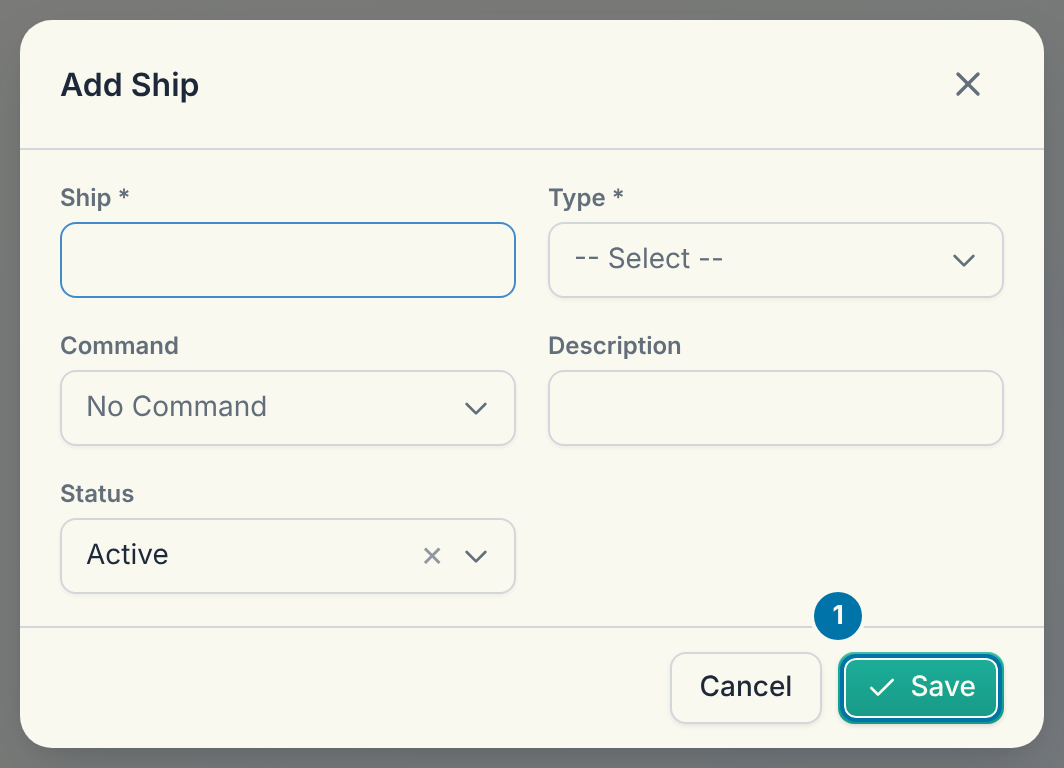
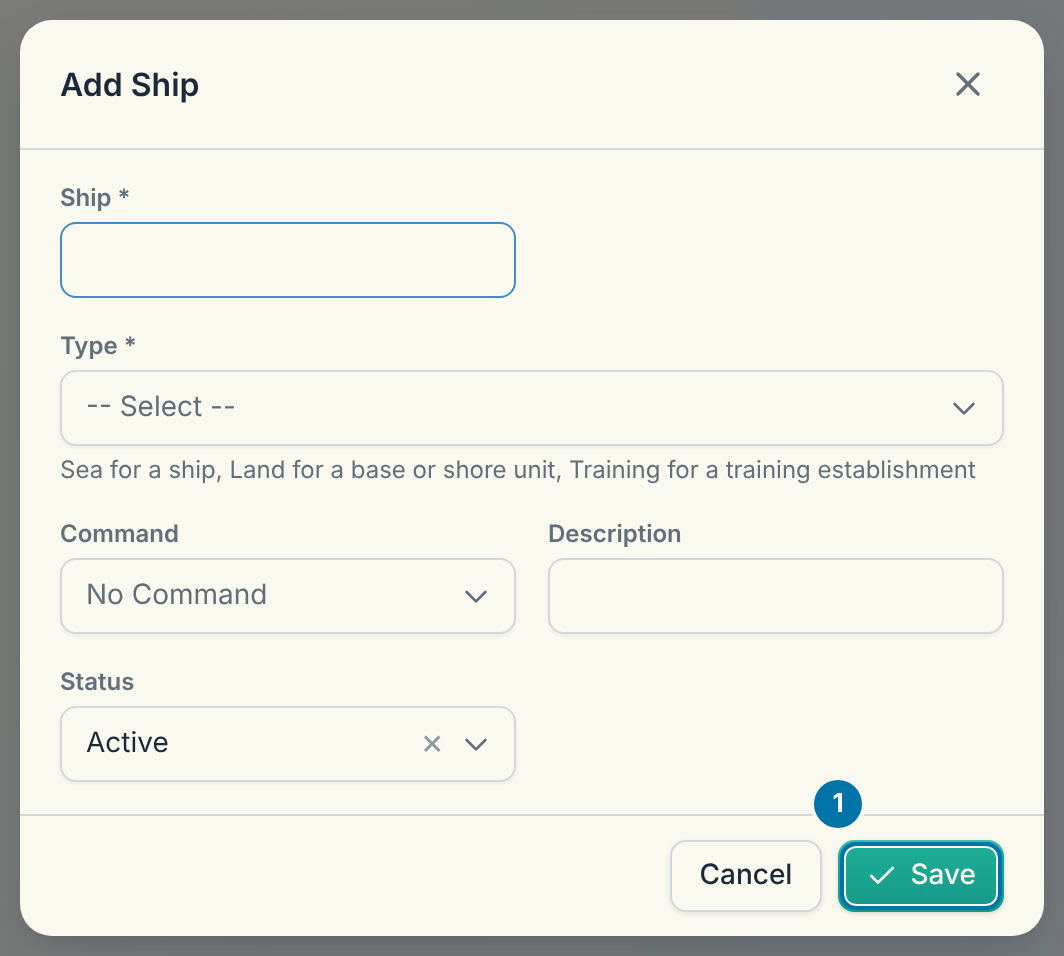
Record fields: View Details tooltip, user guide, README and CONVENTIONS, the import map

diff --git a/public/js/sections/rating-children.js b/public/js/sections/rating-children.js
@@ -25,7 +25,7 @@ import { confirmDialog } from '../ui/confirm.js';
 import { toast } from '../ui/toast.js';
 import { field, textInput, selectInput, setFieldErrors, clearFieldErrors } from '../ui/field.js';
 import { optionsWithHeld, filterLgas } from '../core/lookups.js';
-import { rowTips } from './disciplinary-parts.js';
+import { rowTip } from '../ui/row-tip.js';
 import { readForm, dateField } from './rating-fields.js';
 import { scheduledMoves } from './drafting-record.js';
 import { scheduledAdvancements } from './advancement-record.js';
@@ -292,7 +292,7 @@ export function childPanel({ serviceNumber, tab, rows = [], rating = {}, readOnl
   if (tab.look === 'cards') {
     const photo = nokPhoto({ serviceNumber, rating, readOnly: !canEdit });
     return h('div', { className: 'space-y-4' }, [
-      rowTips(h('div', { className: 'grid grid-cols-2 gap-4 phone:grid-cols-1' }, rows.map((r) => {
+      rowTip(h('div', { className: 'grid grid-cols-2 gap-4 phone:grid-cols-1' }, rows.map((r) => {
         const name = [r.first_name, r.last_name].filter(Boolean).join(' ');
         const o = opens(r, name);
         return h('section', { ...o, className: cx(CARD, 'p-4 transition-colors hover:bg-subtle', o.className) }, [
@@ -313,7 +313,7 @@ export function childPanel({ serviceNumber, tab, rows = [], rating = {}, readOnl
     return h('div', { className: CARD }, [
       band,
       // Drafting: a move still to come (a WEF after today) shows first, as scheduled
-      rowTips(h('ol', { className: 'relative mx-4 my-4 ml-6 border-l-2 border-border' }, [tab.key === 'drafting' ? scheduledMoves(serviceNumber) : null, ...rows.map((p) => {
+      rowTip(h('ol', { className: 'relative mx-4 my-4 ml-6 border-l-2 border-border' }, [tab.key === 'drafting' ? scheduledMoves(serviceNumber) : null, ...rows.map((p) => {
         const current = !p.end_date;
         const what = p.ship_name || 'posting';
         const o = opens(p, what);
@@ -354,7 +354,7 @@ export function childPanel({ serviceNumber, tab, rows = [], rating = {}, readOnl
   return h('div', { className: cx(CARD, 'overflow-hidden') }, [
     band,
     tab.key === 'advancement' ? scheduledAdvancements(serviceNumber) : null, // a rate change still to come (WP8)
-    rowTips(h('div', { className: tab.details ? '' : 'overflow-x-auto' }, [table, cardList])),
+    rowTip(h('div', { className: tab.details ? '' : 'overflow-x-auto' }, [table, cardList])),
   ]);
 }
 

diff --git a/public/js/ui/row-tip.js b/public/js/ui/row-tip.js
@@ -1,0 +1,33 @@
+/*
+ * row tip: the "View Details" tooltip under the pointer on desktop, for a list whose rows or cards open a record
+ * (a table row with tabindex, or anything marked data-view-details). Touch shows nothing.
+ *
+ *   rowTip(listEl)   returns listEl
+ */
+import { h } from './html.js';
+
+let tip = null;
+
+export function rowTip(listEl) {
+  const tipEl = () => {
+    if (!tip) {
+      tip = h('div', { role: 'tooltip', className: 'pointer-events-none fixed z-[60] hidden whitespace-nowrap rounded-ctl bg-foreground px-2 py-1 text-xs font-medium text-background shadow-pop' });
+      document.body.appendChild(tip);
+    }
+    return tip;
+  };
+  const hide = () => { if (tip) tip.classList.add('hidden'); };
+  listEl.addEventListener('pointermove', (e) => {
+    const target = e.target.closest && e.target.closest('tbody tr[tabindex], [data-view-details]');
+    // not over the row's own buttons
+    if (!target || e.pointerType === 'touch' || e.target.closest('button')) { hide(); return; }
+    const t = tipEl();
+    t.textContent = 'View Details';
+    t.classList.remove('hidden');
+    t.style.left = `${Math.max(8, Math.min(e.clientX - 6, window.innerWidth - t.offsetWidth - 8))}px`;
+    t.style.top = `${Math.min(e.clientY + 20, window.innerHeight - t.offsetHeight - 8)}px`;
+  });
+  listEl.addEventListener('pointerleave', hide);
+  listEl.addEventListener('click', hide);
+  return listEl;
+}

diff --git a/public/js/sections/disciplinary-parts.js b/public/js/sections/disciplinary-parts.js
@@ -78,7 +78,7 @@ export function rowTips(listEl) {
   };
   const hide = () => { if (tip) tip.classList.add('hidden'); };
   listEl.addEventListener('pointermove', (e) => {
-    const row = e.target.closest && e.target.closest('tbody tr[tabindex], [data-view-details]');
+    const row = e.target.closest && e.target.closest('tbody tr[tabindex]');
     if (!row || e.pointerType === 'touch') { hide(); return; }
     const t = tipEl();
     t.textContent = 'View Details';

diff --git a/README.md b/README.md
@@ -29,7 +29,12 @@ Every screen works on desktop (761 px and up) and on a phone (760 px and below),
 4. **New Rating** (`#ratings/new` or the **New Rating** buttons) — a dialog with four steps (*Basic Details*, *Contact*, *Health*, *Official*) and the passport photo; moving between steps keeps what was typed.
 5. **The rating's record** (`#ratings/edit/:serviceNumber`) — photo, name, labels and **Edit Details** / **Print Dossier** / **Delete**; a thin completeness bar (red below 50%, amber to 79%, green from 80%); ten tabs:
    - **Details**: Basic Details, Contact, Health and Official as cards, each edited in a dialog.
-   - **Next of Kin** (with photo), **Spouse**, **Children**, **Advancement**, **Drafting** (a timeline with the current posting), **Training**, **Education**, **Language**: Add and Edit in dialogs, Delete after a confirm, tab PDFs where the old system had them.
+   - **Next of Kin** (with photo), **Spouse**, **Children**, **Advancement**, **Drafting** (a timeline with the current posting), **Training**, **Education**, **Language**: Add and Edit in dialogs, Delete after a confirm, tab PDFs where the old system had them. The family and drafting tabs carry the live system's fields, and a row (or card) opens **View Details**, the whole record as label and value rows with its Edit and Delete:
+     - **Next of Kin**: First Name*, Last Name*, Next of Kin Type (Main or Alternate), Relationship* (Static Tables, Relationship), Mobile Number*, Home Number, Email Address*, Place of Work, Full Address* (`rating_next_of_kin`: `kin_type`, `next_of_kin_type_id`, `mobile_number`, `home_number`, `email_address`, `place_of_work`, `full_address`).
+     - **Spouse**: Full Name* (the only required field), Phone, Email, Street, Town, State, Local Government (filtered by the State, as the rating form's own are), P.O. Box.
+     - **Children**: the same address fields, then Sex (the Gender list), Date of Birth (not in the future; the list shows the age), School, Office Address and Occupation. Only Full Name is required.
+     - **Drafting** (a posting): Ship or Unit*, Command (picked from the ship's Command, and changeable), Branch, Rate at Posting, From, To, Authority (the signal), Decoration/Award and Status (the posting's Exit Type, **Active** by default). There is no State and no Sub-Branch. A posting CIRERMS makes itself (a draft or special draft reaching its WEF, `postings.move`; a rating added by Batch Upload) takes the new ship's Command, the rating's Branch, the authority of the batch or signal, and the Active status.
+     - Every change is audited field by field, and the dossier prints each person and posting as a block of label and value rows.
    - **Documents**: category chips (`DRAFTING`, `CERTIFICATE`, `REQUEST_FORM`, `EMOLUMENT`, `GEN_FORM`, `OTHER`), file list, preview, download and upload.
 6. **My Details** (`#ratings/my-details`) — the same record read-only, resolved from `users.service_number` (works for every account, as every account belongs to a rating: the full record for `HICO001` and for `B0539`).
 7. **Batch Upload** (`#ratings/upload`) — **Download Template** (with an embedded lookup reference sheet), **Upload Workbook**, **Review and Commit**: compulsory fields, dates and lookups enforced, duplicate Official Numbers skipped, the rest added in one transaction.
@@ -181,7 +186,7 @@ One engine serves all 16 tables. `src/modules/tables/tables.config.js` holds a c
 - Institution (new): Code(30), Name*(100), Location, Type (University, Polytechnic, College, Secondary School, Training Centre, Training Base, Other).
 - Local Government: Name*, State*, Code(10). Languages: Name. Relationship (the next of kin type table): Name*, Code(5).
 - Staff Branch: Name*, Code(20), Command, Department(20), CDR(20). Specialisation Area: Name*, Code*(15), Second Description(20) (the code goes in the batch numbers).
-- Ships: Name*, Type* (Ship, Base, Training), Command, Description(150). States: Name*, Code*(5), Geo-Political Zone. Title: Name*, Description(50).
+- Ships: Name*, Type* (Sea, Land, Training: the live system's own words), Command, Description(150). The list shows Name, Type, Command and Status; the Description is in the dialog. States: Name*, Code*(5), Geo-Political Zone. Title: Name*, Description(50).
 - Training (new): Code(10), Course*(60), Qualification Awarded(50), Institution*, Weeks* (1 to 104), Branch or Any, Specialisation or Any, Rates (none means every rate; link table `ref_training_rate`). The list shows Course, Institution, Weeks and the code.
 
 Rates (`ref_rate`, no screen, seeded) gained a Code (OS, AB, LS, PO, CPO, WO, MWO, NWO); their `sort_order` is the rank order, lowest first. The rating's Education and Training entries gained `institution_id` (and Training `training_course_id`) with foreign keys: their dialogs pick from the tables, the entry keeps the name as text too, and an older entry that holds only text still shows and saves. Migration `20261120_020000_create_static_tables.sql`; seed `004_static_tables.sql`. Other dropdown tables not among the 16 stay seeded by SQL.
@@ -198,7 +203,8 @@ Rates (`ref_rate`, no screen, seeded) gained a Code (OS, AB, LS, PO, CPO, WO, MW
 - Optional codes (Institution, Local Government, Relationship, Staff Branch, Training) may be empty but are unique when given. The database leaves every code column NULL-able so the migration runs on rows that exist; the engine requires the codes the specification marks.
 - A new row goes to the end of its dropdown order (`sort_order` is not shown); every name is unique (a local government's within its State; case ignored).
 - A Training course needs its Institution and Weeks; Branch and Specialisation empty mean Any; Rates are picked from a dropdown that adds a chip.
-- Ships and bases: the seed keeps the demo's types (the shore bases are Base, the rest Ship); the old Sea and Land become Ship and Base. Ship, staff branch, state and exit-type values for command, zone and flag are demo values.
+- Ships and bases: the type is Sea, Land or Training (the live system's words). Migration `20261120_160000` moved the stored values (Ship became Sea, Base became Land); the seed keeps the demo's types (the shore bases are Land, the rest Sea). Ship, staff branch, state and exit-type values for command, zone and flag are demo values.
+- Exit Type holds an **Active** row (code AC, Rating Stays Current) that a posting's Status starts as; the seed adds it beside the old A, M and C.
 - The old exit codes A, M and C are seeded as "Serving (A)", "Serving (M)" and "Serving (C)" (stays current): their meaning beyond that is not in the repository.
 - A row opens its dialog from the row or its Edit button; without the Edit grant it opens read-only (View).
 - A training entry picked from the Training table takes the course's name as its Course text, and the course's institution when none is picked.

diff --git a/docs/manual/ratings.md b/docs/manual/ratings.md
@@ -95,11 +95,11 @@ Below the bar are ten tabs.
 | Tab | What it holds |
 |---|---|
 | **Details** | Basic Details, Contact, Health and Official, as four cards |
-| **Next of Kin** | The people to call, with a photograph |
-| **Spouse** | The rating's spouse |
-| **Children** | The rating's children |
+| **Next of Kin** | The people to call, with their address and contact details, and a photograph |
+| **Spouse** | The rating's spouse, with the address |
+| **Children** | The rating's children, with the address, sex, date of birth and school |
 | **Advancement** | Every rate the rating has held, with dates, decoration and authority |
-| **Drafting** | The postings, as a timeline with the current one at the top |
+| **Drafting** | The postings, as a timeline with the current one at the top, each with its command, branch and status |
 | **Training** | Courses attended |
 | **Education** | Schools and qualifications |
 | **Language** | Languages spoken |
@@ -133,6 +133,37 @@ Below the bar are ten tabs.
 4. Press **Save**.
 
 ![Adding a next of kin](shot:ratings-add-next-of-kin)
+
+### Read an entry in full {#ratings-view-details needs="ratings.edit view"}
+
+The lists on **Next of Kin**, **Spouse**, **Children** and **Drafting** show only the main facts of each entry. To read all of it:
+
+1. Open the record and press the tab.
+2. Press the entry's row or card.
+3. Read the details, one fact on each line.
+4. Press **Close**. If your role may change entries, **Edit** and **Delete** are in the same place.
+
+![An entry in full](shot:ratings-view-details)
+
+### What each tab asks for {#ratings-tab-fields needs="ratings.edit view"}
+
+Fields with a star are required. Dates are dd/mm/yyyy. Names are kept as you type them.
+
+| Tab | Fields |
+|---|---|
+| **Next of Kin** | **First Name** \*, **Last Name** \*, **Next of Kin Type** (**Main** or **Alternate**), **Relationship** \*, **Mobile Number** \*, **Home Number**, **Email Address** \*, **Place of Work**, **Full Address** \* |
+| **Spouse** | **Full Name** \*, **Phone Number**, **Email Address**, **Street**, **Town**, **State**, **Local Government**, **P.O. Box** |
+| **Children** | **Full Name** \*, **Sex**, **Date of Birth**, **Phone Number**, **Email Address**, **Street**, **Town**, **State**, **Local Government**, **P.O. Box**, **School**, **Occupation**, **Office Address** |
+| **Drafting** | **Ship or Unit** \*, **Command**, **Branch**, **Rate at Posting**, **From**, **To**, **Authority**, **Decoration/Award**, **Status**, **Remarks** |
+
+- **Relationship** is picked from [Static Tables](#tables/relationship).
+- **Local Government** lists only the local governments of the **State** you chose. Choose the **State** first.
+- **Date of Birth** of a child cannot be in the future. The list shows the child's age.
+- On **Drafting**, picking the **Ship or Unit** fills its **Command**. You may change it. **Branch** starts as the rating's branch and **Status** starts as **Active**.
+- **Authority** is the signal that posted the rating, for example `NHQ/NP/DOD/135/2026`.
+- When a draft takes effect, the new posting is made for you with the ship's command, the rating's branch, the batch's authority and the status **Active**.
+
+![Adding a posting](shot:ratings-add-posting)
 
 To change an entry, press its edit icon.
 
@@ -234,6 +265,31 @@ marks:
   1: button "Next" | Go to the next step
 ```
 
+```shot ratings-view-details
+open: #ratings/edit/B0539
+as: admin
+do:
+  - click: tab "Next of Kin 2"
+  - click: text "Adaeze Okonkwo"
+  - wait: text "Full Address"
+crop: modal
+marks:
+  1: text "Full Address" | The address of the next of kin
+  2: button "Edit" | Change the entry
+```
+```shot ratings-add-posting
+open: #ratings/edit/B0539
+as: admin
+do:
+  - click: tab "Drafting 3"
+  - click: button "Add Posting"
+  - wait: label "Authority"
+  - click: heading "Add Posting"
+crop: modal
+marks:
+  1: label "Authority" | The signal
+  2: button "Save" | Save the posting
+```
 ```shot ratings-record
 open: #ratings/edit/B0539
 as: admin

diff --git a/docs/legacy/import-map.md b/docs/legacy/import-map.md
@@ -1,0 +1,81 @@
+# Import map: the record's new fields to the live system's columns
+
+For the later import of the real records (27/11/2026). It names columns only: it holds no record and none of the live
+database's script. The old tables and the fields CIRERMS already held are in [ratings.md](ratings.md) and
+[static-tables.md](static-tables.md); this page covers what the record-fields change (`20261120_160000_record_fields.sql`)
+added, so a loader can fill every field.
+
+Every row is read by its rating (the old person's key becomes the rating's official number, as ratings.md section 1
+says), and every Static Tables value is found by its code or name before the row is written. A value that has no match
+goes to the exceptions report, never silently dropped.
+
+## Next of Kin: live `NextOfKin` to `rating_next_of_kin`
+
+| CIRERMS field | Column | Live column | Notes |
+|---|---|---|---|
+| First Name | `first_name` | `FirstName` | required |
+| Last Name | `last_name` | `LastName` | required |
+| Relationship | `next_of_kin_type_id` | `RelationshipId` | Static Tables, Relationship (`ref_next_of_kin_type`) |
+| Full Address | `full_address` | `FullAddress` | required |
+| Mobile Number | `mobile_number` | `MobileNumber` | required |
+| Home Number | `home_number` | `HomeNumber` | |
+| Email Address | `email_address` | `EmailAddress` | required |
+| Place of Work | `place_of_work` | `PlaceOfWork` | |
+| Next of Kin Type | `kin_type` | `NextofkinType` | Main or Alternate |
+
+## Spouse: live `Spouse` to `rating_spouse`
+
+| CIRERMS field | Column | Live column | Notes |
+|---|---|---|---|
+| Full Name | `name` | `spname` | required |
+| Phone Number | `phone_number` | `spphone` | |
+| Email Address | `email_address` | `spemail` | |
+| Street | `street` | `spstreet` | |
+| Town | `town` | `sptown` | |
+| State | `state_id` | `Stateid` | Static Tables, States |
+| Local Government | `local_government_id` | `LocalGovernmentId` | must belong to the State |
+| P.O. Box | `po_box` | `sppobox` | |
+
+## Children: live `Children` to `rating_children`
+
+| CIRERMS field | Column | Live column | Notes |
+|---|---|---|---|
+| Full Name | `name` | `chname` | required |
+| Phone Number | `phone_number` | `chphone` | |
+| Email Address | `email_address` | `chemail` | |
+| Street | `street` | `chstreet` | |
+| Town | `town` | `chtown` | |
+| State | `state_id` | `Stateid` | Static Tables, States |
+| Local Government | `local_government_id` | `LocalGovernmentId` | must belong to the State |
+| P.O. Box | `po_box` | `chpobox` | |
+| Sex | `gender_id` | `Sextypeid` | the Gender list (`ref_gender`) |
+| Date of Birth | `date_of_birth` | `dateofbirth` | a date, not in the future |
+| School | `school` | `chschool` | |
+| Office Address | `office_address` | `officeaddress` | |
+| Occupation | `occupation` | `occupation` | |
+
+## Postings: live `employmenthist` to `rating_drafting`
+
+| CIRERMS field | Column | Live column | Notes |
+|---|---|---|---|
+| Branch | `branch_id` | `branchid` | Static Tables, Branch |
+| Authority | `authority` | `signal` | free text, the signal |
+| Command | `command_id` | `command` | Static Tables, Command |
+| Decoration/Award | `decoration` | `decoration` | free text |
+| Status | `exit_type_id` | `Exitmodeid` | Static Tables, Exit Type; the row named Active when empty |
+| Rate at Posting | `rate_id` | `rateid` | |
+| From | `start_date` | `fromdate` | |
+| To | `end_date` | `todate` | empty for the current posting |
+| Ship or Unit | `ship_id` | `Departmentid` | Static Tables, Ships |
+| Remarks | `remarks` | `remarks` | |
+
+The live posting's State and Sub-Branch are not kept (the owner's decision, 27/11/2026).
+
+## Ships: live `Department` to `ref_ship`
+
+| CIRERMS field | Column | Live column | Notes |
+|---|---|---|---|
+| Ship | `name` | `Name` | |
+| Description | `description` | `Description` | |
+| Command | `command_id` | `commandid` | Static Tables, Command |
+| Type | `type` | `LandSea` | Sea, Land or Training |

diff --git a/CONVENTIONS.md b/CONVENTIONS.md
@@ -467,7 +467,17 @@ module.exports = {
     source: { table, id } })` ends the open posting the day before the WEF and opens the new one on it, or, for a WEF
     after today, schedules it; `onSource(table, { applied, cancelled })` tells the caller's record when a scheduled
     move is made (or cannot be); `scheduledFor(serviceNumber)` is what is still to come (the record's Drafting tab
-    shows it, `js/sections/drafting-record.js`). Never write `rating_drafting` for a move any other way.
+    shows it, `js/sections/drafting-record.js`). Never write `rating_drafting` for a move any other way. The posting it
+    makes carries the new ship's Command (`ref_ship.command_id`), the rating's Branch, the authority it was given (the
+    batch's authority, or the special draft's signal) and the Active status (`ref_exit_type` named Active).
+  - **The record's fields** (`ratings.service.js`, `CHILD_TAB_CONFIG`): each tab's `sanitise` holds its required fields and
+    formats, `refs` names the Static Tables rows a field may pick (an id that is not in the table is refused under its
+    field), and `prepareFields` checks a local government belongs to its state and gives a new posting its defaults
+    (the ship's Command, the rating's Branch, Active) when the request leaves them out; an update writes only the keys it
+    sends. The audit trail needs nothing more: it keeps every changed column of the row. A relative's name is stored as
+    typed. A new field on a record tab goes in five places: its migration column, the tab's `fields` and `details` in
+    `public/js/sections/rating-children.js` (the Add and Edit dialog and View Details), the dossier in
+    `ratings.printouts.js`, and the audit (automatic).
   - **Scheduled changes** (`src/shared/scheduled`): `register(kind, { apply, cancelled })` at load, `schedule(tx,
     actor, { kind, serviceNumber, effectiveDate, payload, source })`, `cancel`, `forRating`, `applyDue({ today })`. The
     server (`src/server.js`) applies the changes due at start and then every hour, each in its own transaction (actor

diff --git a/docs/manual/static-tables.md b/docs/manual/static-tables.md
@@ -62,10 +62,10 @@ If the page says **This ... is in use** and names where, for example **(5 rating
 | **Institution** | A **Code**, **Location** and **Type**, such as University or Training Base. A course picks one |
 | **Local Government** | Belongs to a **State**. A name is unique within its state |
 | **Languages** | A name only |
-| **Relationship** | A name only. Next of kin entries pick one |
+| **Relationship** | A name only. Next of kin entries pick one as their **Relationship** |
 | **Staff Branch** | May belong to a **Command**. The rating form's Staff Branch list follows the chosen command |
 | **Specialisation Area** | A **Code** of up to 15 characters. It appears in the batch numbers |
-| **Ships** | A **Type**: **Ship**, **Base** or **Training**, and an optional **Command**. Drafting uses the active ships |
+| **Ships** | A **Type**: **Sea**, **Land** or **Training**, and an optional **Command**. The list shows the name, type, command and status. The description is in the dialog. Drafting uses the active ships, and a posting takes its command from its ship |
 | **States** | A **Code** and a **Geo-Political Zone**. The rating form fills the zone from the state |
 | **Title** | A name and a description |
 | **Training** | A course. It needs an **Institution** and the **Weeks**, 1 to 104. **Branch** and **Specialisation** empty mean any. **Rates** are picked from a list that adds a chip. None picked means every rate. [Training Drafting](#training/process) offers these courses |

diff --git a/docs/legacy/ratings.md b/docs/legacy/ratings.md
@@ -2,6 +2,8 @@
 
 Scope: ONLY the old tables behind a rating and how they map to the new schema for the later import. The old pages are not documented here. Sources: `HRProjectDAL/Core/HicadHRProjectModel.edmx` (store model: tables, columns, declared foreign keys), `hpproject/Controllers/EmployeeController.cs` and `EmployeePersonalInfoController.cs` (only to find which tables are used), `hpproject/APIController/PersonelController.cs` (child-record endpoints). New schema: `src/db/migrations/20261116_090200_create_ratings.sql` (`ratings`), `20261116_090300_create_rating_records.sql` (`rating_*`), `20261116_090100_create_lookups.sql` (`ref_*`).
 
+> **Update (27/11/2026):** the fields below marked "NO EQUIVALENT" for next of kin, spouse, children and drafting history (all but the drafting State and Sub-Branch, which the owner left out) now have columns in the new schema (`20261120_160000_record_fields.sql`). [import-map.md](import-map.md) maps each one to its live column.
+
 Conventions: type shows `nvarchar(30)` etc.; `?` = nullable in the store model; `#` = identity. Everything below the edmx is a read of definitions only; no data was read. Procedure and view bodies are not available, so rules about "current / former" are inferred from C# (UNCONFIRMED where stated).
 
 ## 1. Identity of a rating: keys and linking
